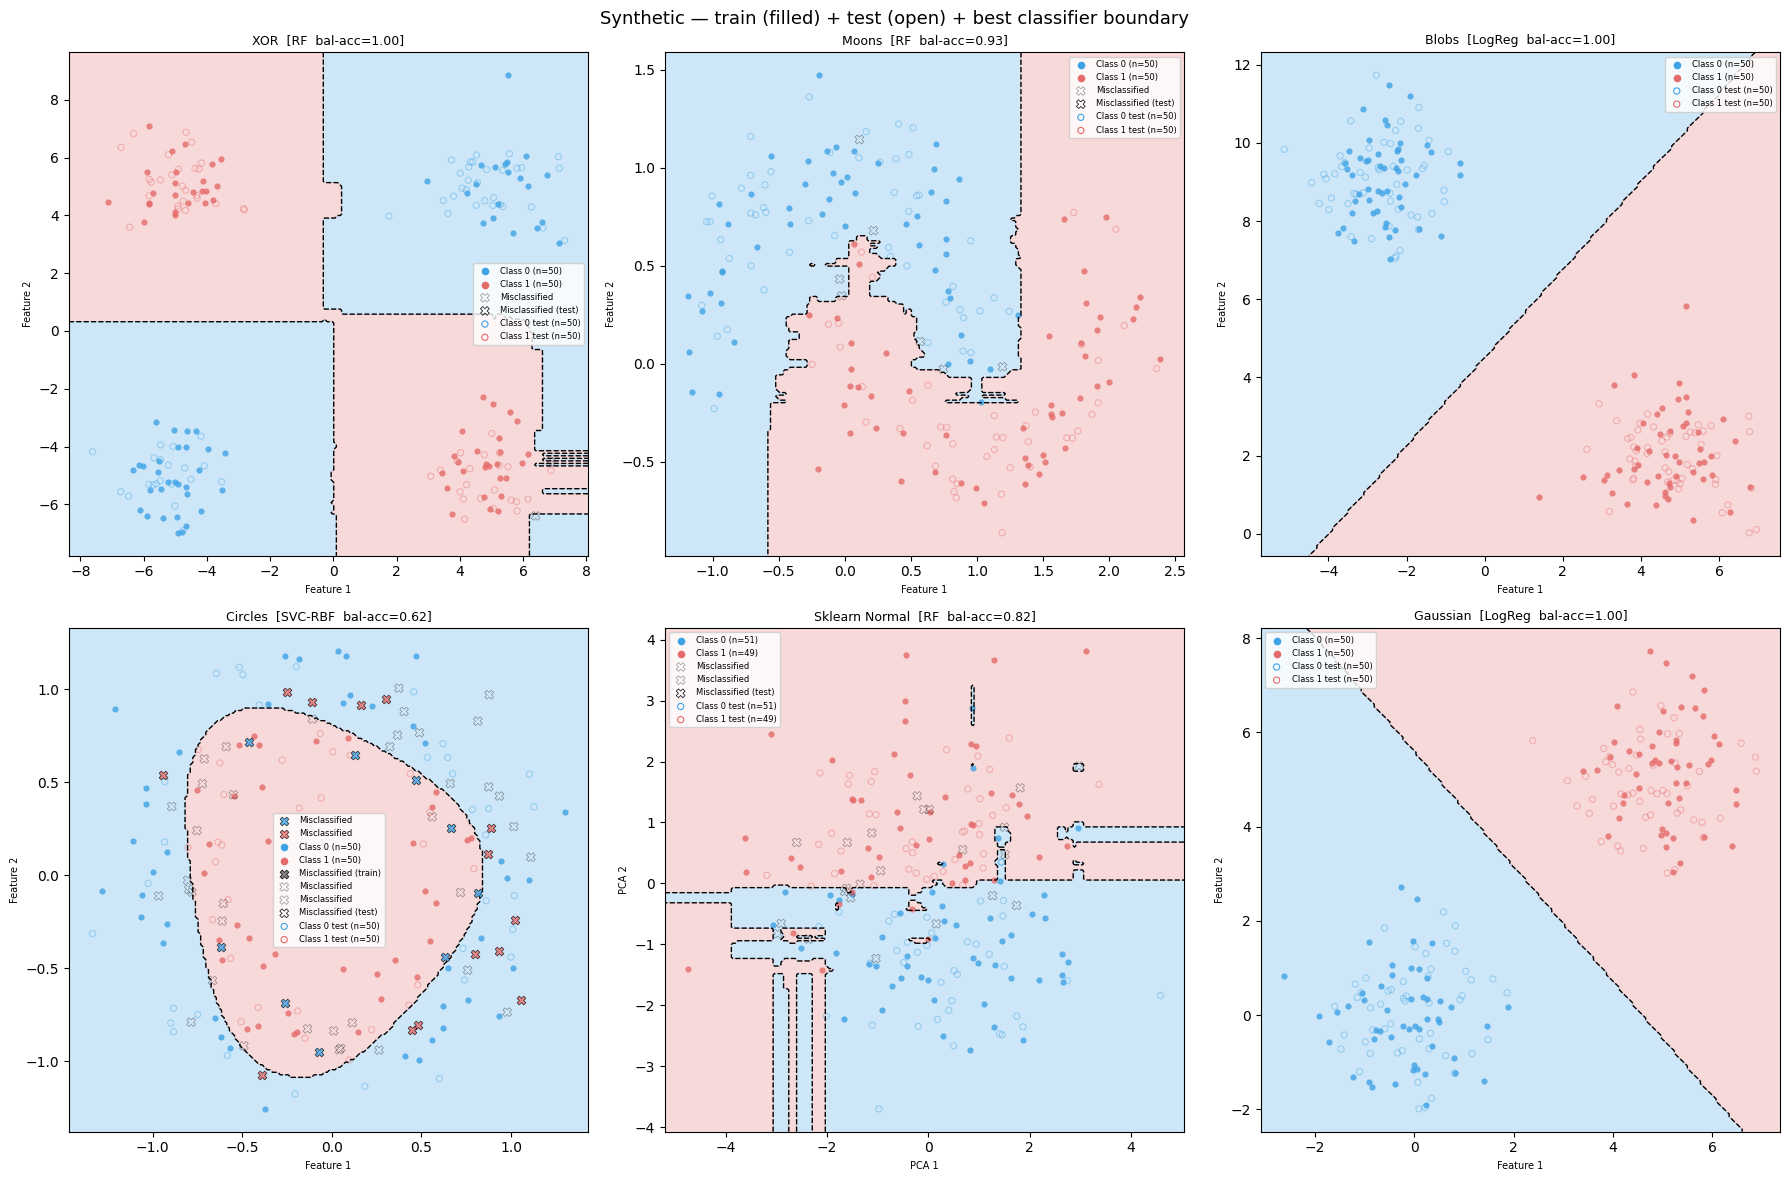
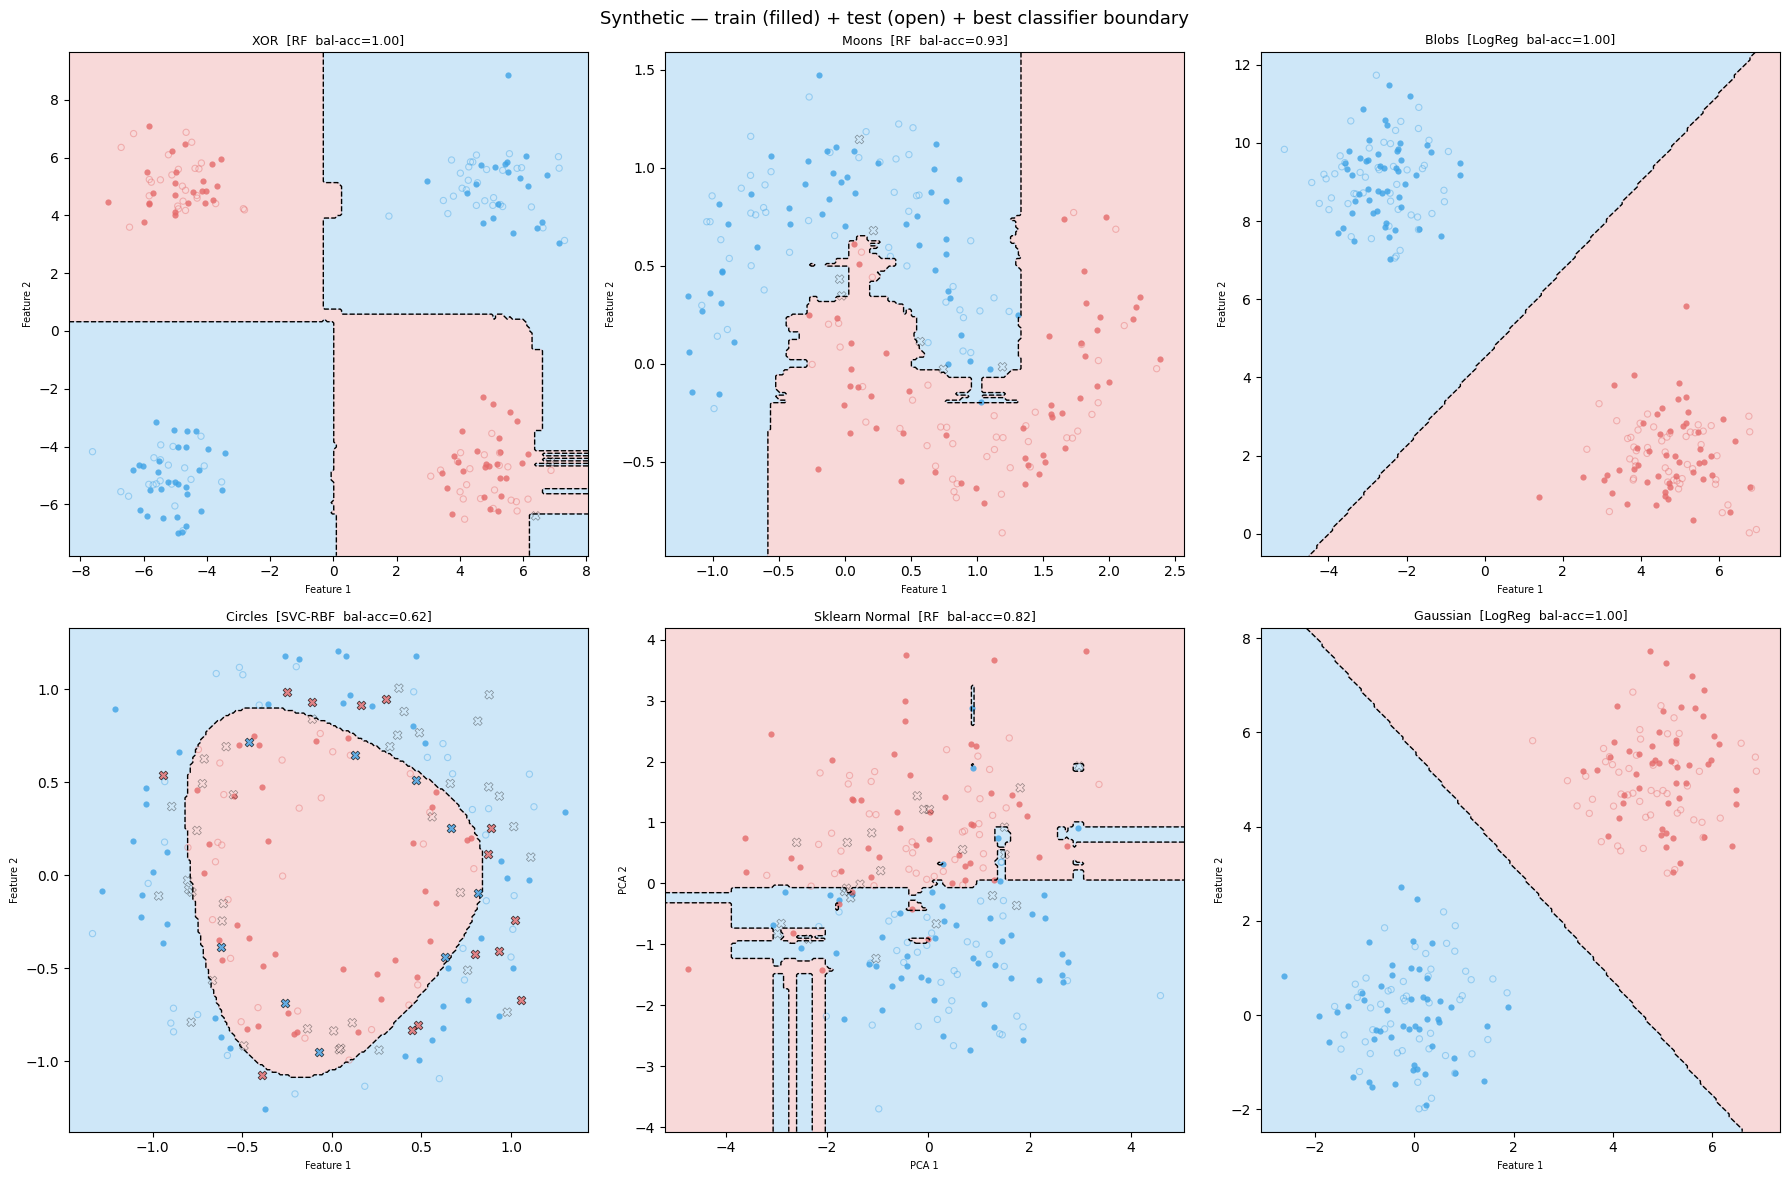
clf performances

diff --git a/data_loaders/loaders/abstract_loader.py b/data_loaders/loaders/abstract_loader.py
@@ -363,6 +363,7 @@ class AbstractLoader(ABC):
             dim_reducer_method: str | None = None,
             clf: Callable | None = None,
             y_pred: np.ndarray | None = None,
+            show_legend: bool = True,
     ) -> tuple[Any, Any] | None:
         """
         Plot the dataset.
@@ -383,6 +384,8 @@ class AbstractLoader(ABC):
             regions are drawn only when data is already 2D (no dim reduction applied).
         y_pred : np.ndarray, optional
             Pre-computed predictions for X (used instead of calling clf for point coloring).
+        show_legend : bool, default=True
+            If False, suppress the legend.
 
         Returns
         -------
@@ -407,6 +410,7 @@ class AbstractLoader(ABC):
             dim_reducer_method=dim_reducer_method or self.default_dim_reducer,
             clf=clf,
             y_pred=y_pred,
+            show_legend=show_legend,
         )
 
 
@@ -422,6 +426,7 @@ class AbstractLoader(ABC):
             y_pred_test: np.ndarray | None = None,
             overlay_train_test: bool = False,
             test_alpha: float = 0.3,
+            show_legend: bool = True,
     ) -> tuple[Any, Any] | None:
         """
         Create train/test split and plot both datasets.
@@ -452,6 +457,8 @@ class AbstractLoader(ABC):
             test uses open markers at test_alpha opacity.
         test_alpha : float, default=0.3
             Alpha for test data scatter points when overlay_train_test=True.
+        show_legend : bool, default=True
+            If False, suppress the legend on all axes.
 
         Returns
         -------
@@ -487,6 +494,7 @@ class AbstractLoader(ABC):
             y_pred_test=y_pred_test,
             overlay_train_test=overlay_train_test,
             test_alpha=test_alpha,
+            show_legend=show_legend,
         )
 
     def __str__(self) -> str:

diff --git a/data_loaders/plotting/visualisation.py b/data_loaders/plotting/visualisation.py
@@ -86,6 +86,7 @@ def plot_dataset(
         y_pred_test: np.ndarray | None = None,
         overlay_train_test: bool = False,
         test_alpha: float = 0.3,
+        show_legend: bool = True,
 ) -> tuple[Any, Any] | None:
     """
     Plot dataset in 2D using dimensionality reduction.
@@ -128,6 +129,8 @@ def plot_dataset(
         use open markers at test_alpha opacity.
     test_alpha : float, default=0.3
         Alpha for test data scatter points when overlay_train_test=True.
+    show_legend : bool, default=True
+        If False, suppress the legend on all axes.
 
     Returns
     -------
@@ -260,7 +263,8 @@ def plot_dataset(
     plot_ax.set_title(title)
     plot_ax.set_xlabel(embedder.feature_names[0])
     plot_ax.set_ylabel(embedder.feature_names[1])
-    plot_ax.legend()
+    if show_legend:
+        plot_ax.legend()
     plot_ax.set_xlim(*xlim)
     plot_ax.set_ylim(*ylim)
 
@@ -290,7 +294,8 @@ def plot_dataset(
         test_ax.set_title(f"Test set in {embedder.reducer_name} space")
         test_ax.set_xlabel(embedder.feature_names[0])
         test_ax.set_ylabel(embedder.feature_names[1])
-        test_ax.legend()
+        if show_legend:
+            test_ax.legend()
         test_ax.set_xlim(*xlim)
         test_ax.set_ylim(*ylim)
 

diff --git a/scripts/generate_classifier_benchmark_figures.py b/scripts/generate_classifier_benchmark_figures.py
@@ -290,12 +290,12 @@ def generate_group_clf_plots(
                     overlay_train_test=True,
                     clf=clf_instance.predict,
                     test_alpha=0.4,
+                    show_legend=False,
                     ax=ax,
                 )
                 ax.set_xlabel(f'{embedder.reducer_name} 1', fontsize=7)
                 ax.set_ylabel(f'{embedder.reducer_name} 2', fontsize=7)
                 ax.set_title(f'{short}  [{best_clf_name}  bal-acc={best_score:.2f}]', fontsize=9)
-                ax.legend(fontsize=6, loc='best')
             except Exception as e:
                 ax.set_visible(False)
                 print(f'    ERROR on {name}: {e}')
